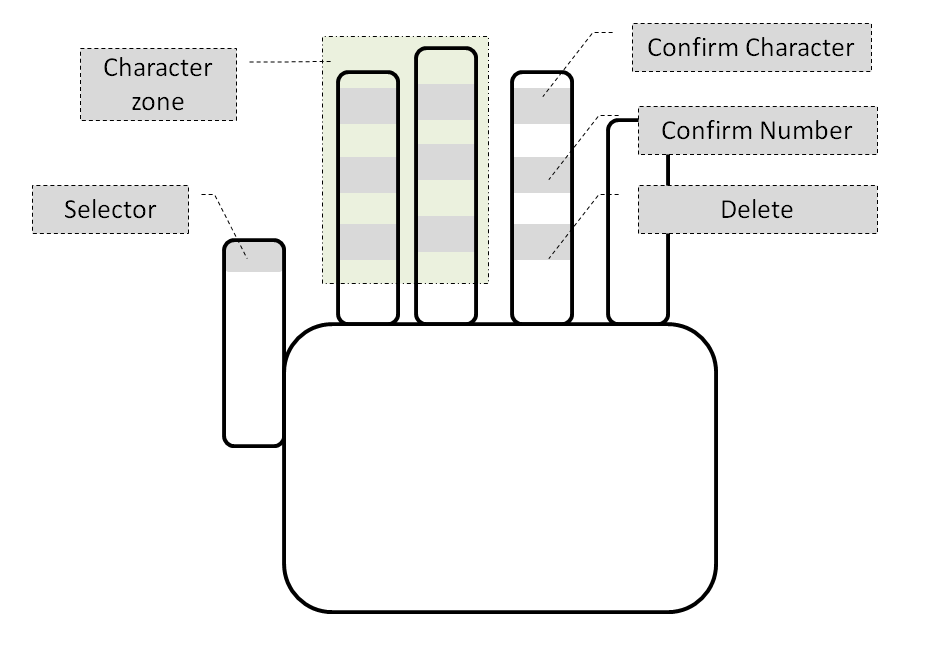
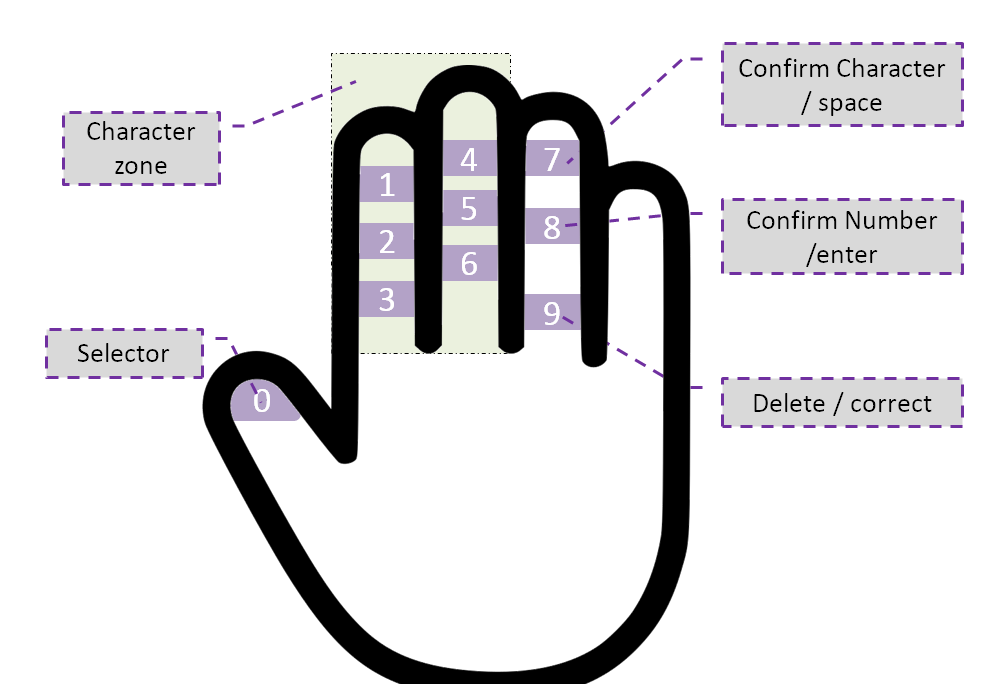
Schema and README updated

diff --git a/README.MD b/README.MD
@@ -3,9 +3,18 @@
 Gloveraille is a glove that act as a  braille keyboard that is based on an arduino board. 
 
 ## Concept
-The concept is verry simple, as shown in the figure bellow, the user will type a character using the selector and the character zone, when the user finish typing the character, he can confirm weither it is a number or character using one of the options in the forth finger, the character is then sent to the computer (or phone) after confirmation. The user can also send space, delete, enter or correct.
- * for space, the user need to have an empty character and use the confirm character
- * for delete, the user choose the last option in the forth finger
- * for enter, the user need to have an empty character and use the confirm number
- * to correct a chararcter, the user need to select the delete option befor confirmation, the character buffer will be flushed.
- 
+The concept is verry simple, as shown in the figure bellow, the user will type a character using the selector and the character zone, when the user finish typing the character, he can confirm weither it is a number or character using one of the options in the forth finger, the character is then sent to the connected device (computer, phone or other compaptible device) after confirmation. The user can also send space, delete, enter or correct.
+The glovebraille consists of 10 pads, 6 for character input, 3 for diffrent options and one pad as a selector. The role of each pad is as follow:
+* pad number 0: the selector
+* pads from 1 to 6 : character zone, this pads will construct the character
+* pad 7: When this pad is selected using the selector, if the user already taped a character, it will confirm the **character** and sent it to the connected device. Otherwise, if the user did not enter any character, this will send a **space** to the device.
+* pad 8: When this pad is selected using the selector, if the user already taped a character, it will confirm the **number** and sent it to the connected device. Otherwise, if the user did not enter any character, this will send a **return character**   to the device.
+* pad 9: When this pad is selected using the selector, if the user already taped a character, it will correct the character, in other words, this action will clear the chararcter buffer and does not send anything to the connected device. Otherwise, if the user did not enter a character, this will send a **deletec character** to the device.
+
+![Gloveraille schema](Schema.png)
+
+The braille alphabet suported now is presented in the folowing figure:
+![Braille alphabet](braille-alphabet.jpeg)
+
+### proof of concept
+[![Blinking LEDs](http://img.youtube.com/vi/Om23hgbdo2s/0.jpg)](https://youtu.be/Om23hgbdo2s "Glovraille: another braille keyboard")
